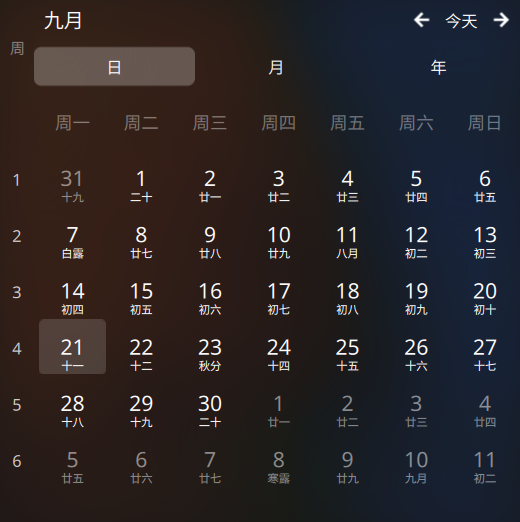
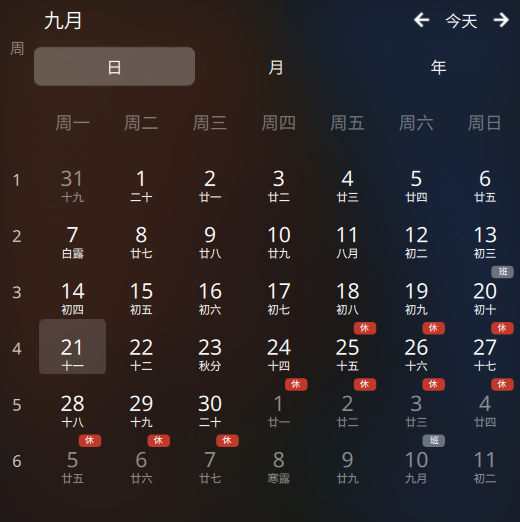
Add optional statutory-holiday markers (休 / 班)
新增可开关的法定节假日标记：放假日记「休」，调休补班日记「班」，悬停显示节日名。

放假安排无法由历法推算（哪几天连休、哪个周末补班是国务院逐年发文的行政安排），
因此内置数据表 contents/ui/holidays.js，来源为国务院办公厅通知：
  2025 国办发明电〔2024〕7 号
  2026 国办发明电〔2025〕7 号
数据收录时逐条交叉校验「通知标注的星期 vs 程序计算」，100% 吻合。
未覆盖年份不显示任何标记，配置页显示当前覆盖范围。

标记叠加在官方网格之上，按 DaysCalendar 的公式反推格子几何，位置经像素级校验：
2026 年 9 月视图中恰好 10 个「休」（9/25-27、10/1-4、10/5-7）与
2 个「班」（9/20、10/10），与独立计算逐格一致，无多余标记。

diff --git a/contents/ui/main.qml b/contents/ui/main.qml
@@ -44,6 +44,7 @@ import org.kde.plasma.components as PlasmaComponents
 import org.kde.plasma.workspace.calendar as PlasmaCalendar
 
 import "termweek.js" as TermWeek
+import "holidays.js" as Holidays
 
 PlasmoidItem {
     id: root
@@ -61,6 +62,19 @@ PlasmoidItem {
     readonly property var termStartDate: TermWeek.parseIsoDate(Plasmoid.configuration.termStart)
     readonly property bool termWeeksVisible: Plasmoid.configuration.showTermWeeks
         && termStartDate !== null
+    readonly property bool holidaysVisible: Plasmoid.configuration.showHolidays
+
+    // 第 index 个日期格子（0 … rows*cols-1）对应的日期。
+    // 月历网格固定 7 列；行首日期由下方 Repeater 从官方 daysModel 读入，
+    // 列偏移按天数相加，Date 会自行处理跨月进位。
+    function cellDateAt(index) {
+        const rowStart = rowStartDates[Math.floor(index / 7)];
+        if (!rowStart) {
+            return null;
+        }
+        return new Date(rowStart.getFullYear(), rowStart.getMonth(),
+                        rowStart.getDate() + (index % 7));
+    }
 
     // 首次拖到桌面时的默认尺寸。注意桌面容器存下来的几何值会比实际
     // 内容区大约 48px，所以 ItemGeometries 里存 464x464 左右较合适。
@@ -222,21 +236,106 @@ PlasmoidItem {
                 }
             }
 
-            // ── 官方月历 ──────────────────────────────────────────────
-            PlasmaCalendar.MonthView {
-                id: monthView
-
+            // ── 官方月历 + 节假日标记 ──────────────────────────────────
+            Item {
                 Layout.fillWidth: true
                 Layout.fillHeight: true
 
-                eventPluginsManager: eventPluginsManager
+                PlasmaCalendar.MonthView {
+                    id: monthView
 
-                // 不要改成 currentDate：那是「被选中的日期」，
-                // 不是显示月份的驱动入口。
-                today: root.today
+                    anchors.fill: parent
 
-                // 内建的 ISO 周数列保持关闭——自定义周数列见上。
-                showWeekNumbers: false
+                    eventPluginsManager: eventPluginsManager
+
+                    // 不要改成 currentDate：那是「被选中的日期」，
+                    // 不是显示月份的驱动入口。
+                    today: root.today
+
+                    // 内建的 ISO 周数列保持关闭——自定义周数列见上。
+                    showWeekNumbers: false
+                }
+
+                // 法定节假日（休）/ 调休上班（班）标记层。
+                // 官方网格的文字无法注入，所以在格子上叠一层自己的标记。
+                Item {
+                    id: holidayLayer
+
+                    anchors.fill: parent
+                    visible: root.holidaysVisible
+
+                    // 按 DaysCalendar 的公式反推格子几何，勿硬编码像素：
+                    //   cellWidth    = floor((width - (columns+1)*borderWidth) / columns)
+                    //   第 j 列左边界 = borderWidth + j * (cellWidth + borderWidth)
+                    //   第 i 行上边界 = viewHeader.height + cellHeight + 2*borderWidth
+                    //                  + i * (cellHeight + borderWidth)
+                    readonly property int cols: monthView.columns
+                    readonly property int bw: monthView.borderWidth
+                    readonly property int cw: Math.max(1, Math.floor((monthView.width - (cols + 1) * bw) / cols))
+                    readonly property int ch: monthView.cellHeight
+                    readonly property int gridTop: monthView.viewHeader.height + ch + 2 * bw
+
+                    Repeater {
+                        model: holidayLayer.cols * monthView.rows
+
+                        delegate: Item {
+                            id: cellMarker
+
+                            required property int index
+
+                            readonly property var cellDate: root.cellDateAt(index)
+                            readonly property var holiday: cellDate
+                                ? Holidays.statusFor(cellDate.getFullYear(),
+                                                     cellDate.getMonth() + 1,
+                                                     cellDate.getDate())
+                                : null
+
+                            // 覆盖整个格子（而不只是小标记），这样悬停整格都能看提示。
+                            // 未命中节假日的格子不可见 → 不拦截任何鼠标事件。
+                            width: holidayLayer.cw
+                            height: holidayLayer.ch
+                            x: holidayLayer.bw
+                                + (index % holidayLayer.cols) * (holidayLayer.cw + holidayLayer.bw)
+                            y: holidayLayer.gridTop
+                                + Math.floor(index / holidayLayer.cols) * (holidayLayer.ch + holidayLayer.bw)
+                            visible: holiday !== null
+
+                            Rectangle {
+                                anchors.top: parent.top
+                                anchors.right: parent.right
+                                anchors.topMargin: 1
+                                anchors.rightMargin: 1
+
+                                width: Math.min(18, Math.max(12, Math.round(cellMarker.width * 0.5)))
+                                height: Math.max(9, Math.round(cellMarker.height * 0.22))
+                                radius: 3
+                                color: cellMarker.holiday && cellMarker.holiday.type === "off"
+                                    ? "#c0392b"   // 放假
+                                    : "#6b7280"   // 调休上班
+
+                                PlasmaComponents.Label {
+                                    anchors.centerIn: parent
+                                    color: "white"
+                                    font.pixelSize: Math.max(7, Math.round(parent.height * 0.7))
+                                    text: cellMarker.holiday && cellMarker.holiday.type === "off"
+                                        ? i18n("休") : i18n("班")
+                                }
+                            }
+
+                            HoverHandler {
+                                id: markerHover
+                            }
+
+                            PlasmaComponents.ToolTip.delay: 400
+                            PlasmaComponents.ToolTip.visible: markerHover.hovered
+                            PlasmaComponents.ToolTip.text: cellMarker.holiday
+                                ? (cellMarker.holiday.type === "off"
+                                    ? i18n("%1：放假", cellMarker.holiday.name)
+                                    : i18n("%1：调休上班", cellMarker.holiday.name))
+                                : ""
+                        }
+                    }
+                }
             }
         }
     }

diff --git a/contents/ui/holidays.js b/contents/ui/holidays.js
@@ -1,0 +1,104 @@
+/*
+ * 中国法定节假日与调休数据表
+ *
+ * ── 为什么必须内置数据表 ──
+ *   节日的「日期」可以算（春节＝正月初一、清明＝清明节气、中秋＝八月十五…），
+ *   但「放假安排」不能算：哪几天连休、哪个周末要补班，是国务院每年单独发文
+ *   规定的行政安排，逐年不同（例如同样是春节，2025 与 2026 的调休日完全不同）。
+ *   所以这里内置两年官方数据，不做推算。
+ *
+ * ── 数据来源（国务院办公厅通知）──
+ *   2025：国办发明电〔2024〕7 号，2024-11-12 发布
+ *   2026：国办发明电〔2025〕7 号，2025-11-04 发布
+ *         https://www.gov.cn/zhengce/zhengceku/202511/content_7047091.htm
+ *   两年数据均已通过「通知标注的星期几 vs 程序计算」逐条交叉校验（0 项不符）。
+ *
+ * ── 如何补充下一年 ──
+ *   次年安排通常在上一年 11 月前后发布。发布后：
+ *     1. 在下方 OFF / WORK 中按 "yyyy-MM-dd": "节日名" 追加条目
+ *     2. 用「通知里写的星期几」核对一遍日期（写错星期必然对不上）
+ *     3. 更新 COVERED_YEARS
+ *
+ * 未覆盖的年份不会有任何标记（不会显示错误数据）。
+ */
+
+.pragma library
+
+// 放假日期 → 节日名
+var OFF = {
+    // ── 2025 ──
+    "2025-01-01": "元旦",
+    "2025-01-28": "春节", "2025-01-29": "春节", "2025-01-30": "春节", "2025-01-31": "春节",
+    "2025-02-01": "春节", "2025-02-02": "春节", "2025-02-03": "春节", "2025-02-04": "春节",
+    "2025-04-04": "清明节", "2025-04-05": "清明节", "2025-04-06": "清明节",
+    "2025-05-01": "劳动节", "2025-05-02": "劳动节", "2025-05-03": "劳动节",
+    "2025-05-04": "劳动节", "2025-05-05": "劳动节",
+    "2025-05-31": "端午节", "2025-06-01": "端午节", "2025-06-02": "端午节",
+    "2025-10-01": "国庆节·中秋节", "2025-10-02": "国庆节·中秋节", "2025-10-03": "国庆节·中秋节",
+    "2025-10-04": "国庆节·中秋节", "2025-10-05": "国庆节·中秋节", "2025-10-06": "国庆节·中秋节",
+    "2025-10-07": "国庆节·中秋节", "2025-10-08": "国庆节·中秋节",
+
+    // ── 2026 ──
+    "2026-01-01": "元旦", "2026-01-02": "元旦", "2026-01-03": "元旦",
+    "2026-02-15": "春节", "2026-02-16": "春节", "2026-02-17": "春节", "2026-02-18": "春节",
+    "2026-02-19": "春节", "2026-02-20": "春节", "2026-02-21": "春节", "2026-02-22": "春节",
+    "2026-02-23": "春节",
+    "2026-04-04": "清明节", "2026-04-05": "清明节", "2026-04-06": "清明节",
+    "2026-05-01": "劳动节", "2026-05-02": "劳动节", "2026-05-03": "劳动节",
+    "2026-05-04": "劳动节", "2026-05-05": "劳动节",
+    "2026-06-19": "端午节", "2026-06-20": "端午节", "2026-06-21": "端午节",
+    "2026-09-25": "中秋节", "2026-09-26": "中秋节", "2026-09-27": "中秋节",
+    "2026-10-01": "国庆节", "2026-10-02": "国庆节", "2026-10-03": "国庆节",
+    "2026-10-04": "国庆节", "2026-10-05": "国庆节", "2026-10-06": "国庆节",
+    "2026-10-07": "国庆节"
+};
+
+// 调休上班（周末补班）日期 → 所属节日
+var WORK = {
+    // ── 2025 ──
+    "2025-01-26": "春节",
+    "2025-02-08": "春节",
+    "2025-04-27": "劳动节",
+    "2025-09-28": "国庆节·中秋节",
+    "2025-10-11": "国庆节·中秋节",
+
+    // ── 2026 ──
+    "2026-01-04": "元旦",
+    "2026-02-14": "春节",
+    "2026-02-28": "春节",
+    "2026-05-09": "劳动节",
+    "2026-09-20": "国庆节",
+    "2026-10-10": "国庆节"
+};
+
+// 数据覆盖的年份（未覆盖的年份不显示任何标记，避免展示错误信息）
+var COVERED_YEARS = [2025, 2026];
+
+function pad2(n) {
+    return (n < 10 ? "0" : "") + n;
+}
+
+function key(y, m, d) {
+    return y + "-" + pad2(m) + "-" + pad2(d);
+}
+
+function isYearCovered(y) {
+    for (var i = 0; i < COVERED_YEARS.length; i++) {
+        if (COVERED_YEARS[i] === y) {
+            return true;
+        }
+    }
+    return false;
+}
+
+// 返回 null（普通日）或 { type: "off" | "work", name: 节日名 }
+function statusFor(y, m, d) {
+    var k = key(y, m, d);
+    if (OFF.hasOwnProperty(k)) {
+        return { type: "off", name: OFF[k] };
+    }
+    if (WORK.hasOwnProperty(k)) {
+        return { type: "work", name: WORK[k] };
+    }
+    return null;
+}

diff --git a/contents/ui/configGeneral.qml b/contents/ui/configGeneral.qml
@@ -17,12 +17,20 @@ import org.kde.kcmutils as KCMUtils
 import org.kde.kirigami as Kirigami
 
 import "termweek.js" as TermWeek
+import "holidays.js" as Holidays
 
 KCMUtils.SimpleKCM {
     id: page
 
     property alias cfg_showTermWeeks: showSwitch.checked
     property alias cfg_termStart: termStartField.text
+    property alias cfg_showHolidays: showHolidaysSwitch.checked
+
+    // 内置节假日数据的覆盖年份（次年安排发布后需更新 holidays.js）
+    readonly property string coveredYears: {
+        const v = Holidays.COVERED_YEARS;
+        return v.length > 0 ? v[0] + "–" + v[v.length - 1] : i18n("无");
+    }
 
     readonly property var parsedStart: TermWeek.parseIsoDate(termStartField.text)
 
@@ -39,6 +47,22 @@ KCMUtils.SimpleKCM {
     }
 
     Kirigami.FormLayout {
+        QQC2.Switch {
+            id: showHolidaysSwitch
+
+            Kirigami.FormData.label: i18n("法定节假日：")
+            text: i18n("在日期上标记「休 / 班」")
+            onToggled: page.configurationChanged()
+        }
+
+        QQC2.Label {
+            Layout.maximumWidth: Kirigami.Units.gridUnit * 22
+            wrapMode: Text.WordWrap
+            opacity: 0.75
+            text: i18n("放假安排由国务院逐年发文规定（含调休补班），无法由历法推算，因此使用内置数据表。当前覆盖：%1 年。",
+                page.coveredYears)
+        }
+
         QQC2.Switch {
             id: showSwitch
 

diff --git a/README.md b/README.md
@@ -17,6 +17,8 @@
 - 农历数据来自 KDE 官方引擎（`plasma-calendar-addons` 提供的 `alternatecalendar` 插件），
   与系统托盘时钟共享同一份配置 —— **不是自己算的**
 - **可选的自定义学期周数列**：以指定的开学日为第 1 周，按周递增（详见下节）
+- **可选的法定节假日标记**：在日期上标出 `休`（放假）与 `班`（调休上班），
+  数据取自国务院办公厅逐年发布的放假安排通知（详见下节）
 - 自动刷新：跨天更新「今天」高亮，跨月自动回到当前月
 - 纯 QML，无需编译；约 4 MB 内存
 
@@ -75,6 +77,43 @@ kpackagetool6 --type Plasma/Applet --remove io.github.helloydh007.lunarcalendar
 
 以起始日 `2026-09-01` 为例，九月的六行显示 `1 2 3 4 5 6`；把起始日改到 `2026-09-28`
 后，只有最后两行显示 `1 2`，前四行留空。
+
+## 法定节假日标记
+
+默认开启。在日期格子右上角显示小标记：
+
+- **`休`**（红）—— 法定放假日
+- **`班`**（灰）—— 调休上班日（周末补班）
+
+悬停任意标记可看节日名（如「中秋节：放假」「国庆节：调休上班」）。在配置页可以关闭。
+
+### 为什么用内置数据表而不是推算
+
+节日的**日期**确实可以算（春节＝正月初一、清明＝清明节气、中秋＝八月十五……），但
+**「放假安排」算不出来**：哪几天连休、哪个周末要补班，是国务院办公厅每年单独发文规定的
+行政安排，逐年不同 —— 例如同样是春节，2025 与 2026 的调休日完全不同。任何声称能"推算"
+调休的做法都是错的。
+
+所以本组件内置数据表，来源为国务院办公厅通知：
+
+| 年份 | 文号 | 发布 |
+| --- | --- | --- |
+| 2025 | 国办发明电〔2024〕7 号 | 2024-11-12 |
+| 2026 | 国办发明电〔2025〕7 号 | 2025-11-04 |
+
+数据在收录时逐条做过「通知里标注的星期几 vs 程序计算」交叉校验（100% 吻合），
+这能有效发现抄录错误 —— 日期写错时星期几乎必然对不上。
+
+### 如何补充下一年
+
+次年安排通常在上一年 11 月前后发布。发布后编辑 `contents/ui/holidays.js`：
+
+1. 在 `OFF`（放假）与 `WORK`（调休上班）中按 `"yyyy-MM-dd": "节日名"` 追加条目
+2. 用通知里写的星期几核对一遍日期
+3. 更新 `COVERED_YEARS`
+
+**未覆盖的年份不会显示任何标记**（宁可什么都不显示，也不显示错误信息）。
+配置页会显示当前数据覆盖的年份范围。
 
 ## 依赖
 
@@ -159,11 +198,31 @@ spacing: monthView.borderWidth          // 每项高度 = monthView.cellHeight
 
 **不要把这些值硬编码**：它们随字体、面板缩放、组件尺寸变化，硬编码会在别的机器上错位。
 
+### 6. 节假日标记：往官方网格上叠一层
+
+同样因为官方网格的文字无法注入，`休`/`班` 标记是叠在上面的独立一层，靠同一套几何公式
+定位到每个格子的右上角：
+
+```qml
+readonly property int cw: Math.floor((monthView.width - (cols + 1) * bw) / cols)
+readonly property int gridTop: monthView.viewHeader.height + ch + 2 * bw
+x: bw + (列号) * (cw + bw) + cw - 标记宽 - 1
+y: gridTop + (行号) * (ch + bw) + 1
+```
+
+格子的日期由「行首日期 + 列偏移天数」得到 —— `Date` 会自动处理跨月进位，所以不需要关心
+月首落在周几。
+
+标记的点击区域特意做成**整格大小**而标记本身只占右上角：这样悬停格子任意位置都能看到节日
+提示。未命中节假日的格子 `visible: false`，完全不拦截鼠标事件，不会影响日历本身的交互。
+
 ## 已知限制
 
 - 只在**中国农历**下做了验证。引擎本身也支持希伯来历、伊斯兰历等，改系统托盘时钟的
   日历设置即可共享同一份配置。
 - 学期周数只支持一组自定义起点；不能同时显示 ISO 周数与自定义周数。
+- **节假日数据是内置表，只覆盖已收录的年份**（见上节）。未覆盖年份不显示标记；次年安排
+  发布后需更新 `holidays.js`。
 - 跨月时如果你正翻看其它月份，视图会回到当前月（每月最多一次）。
 - 添加/删除桌面组件后 Plasma 可能重新排布桌面并改变本组件尺寸；若被压得过矮，农历文字
   会与公历数字叠印，拖一下边角放大即可。
